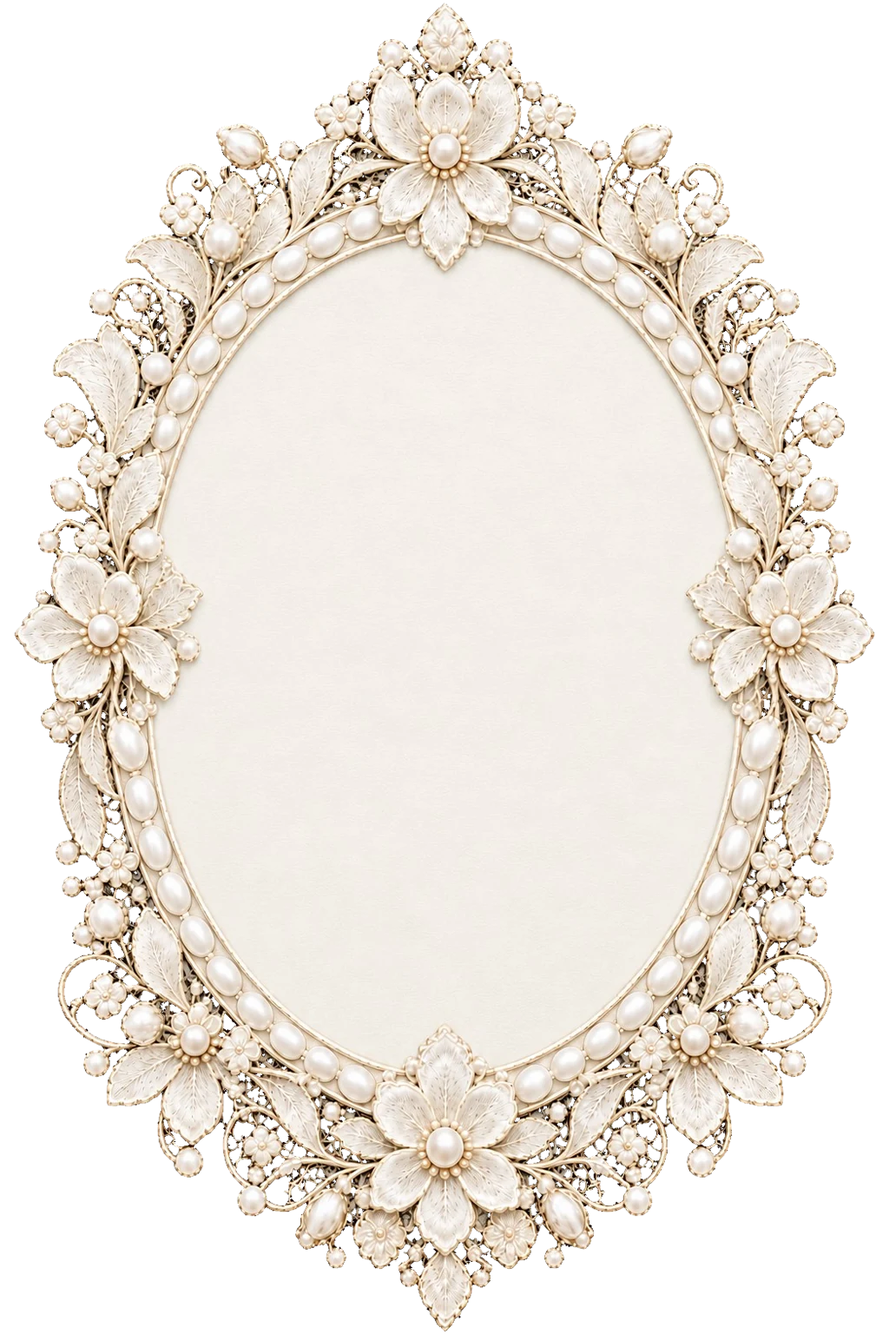
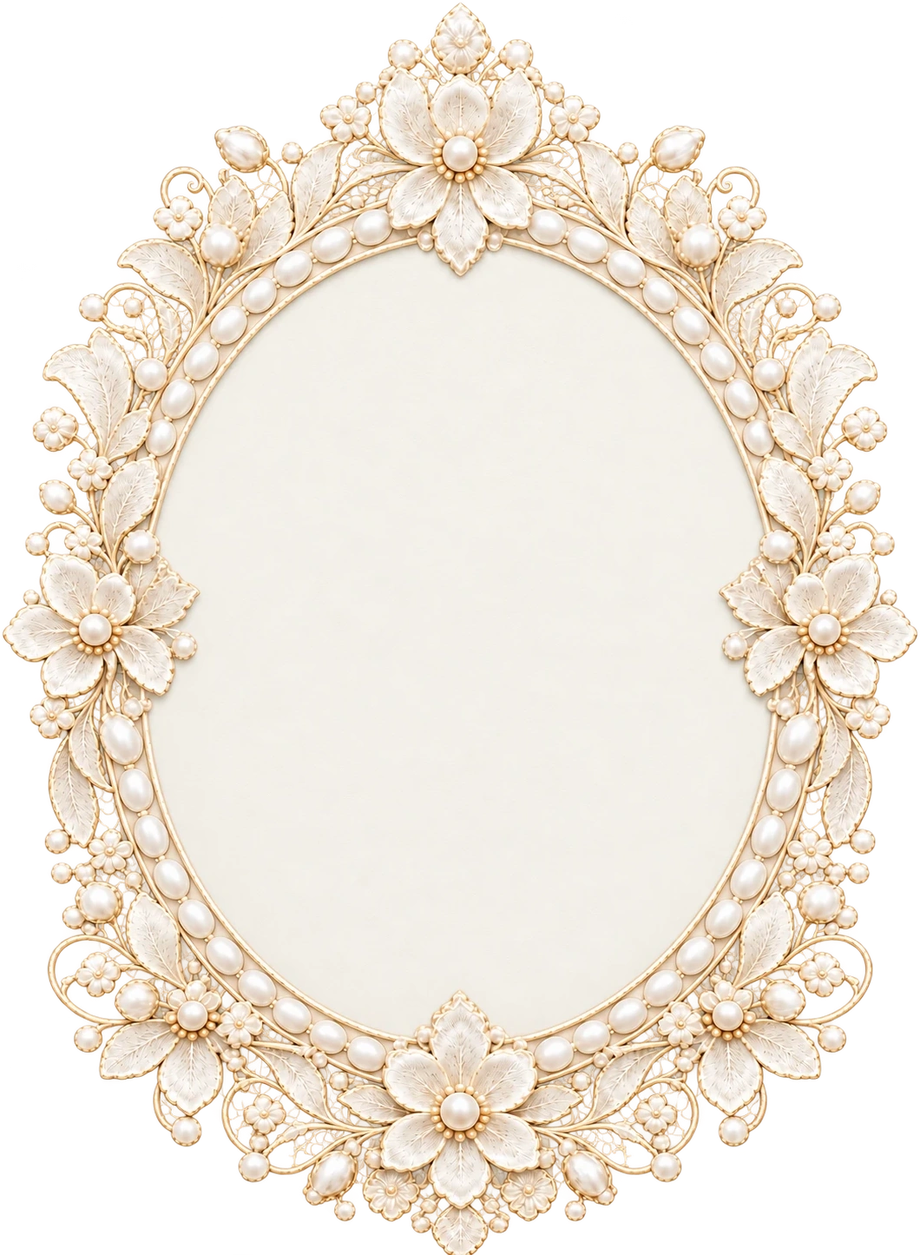
Use the sent pearl frames for the address and dress code as is
- Address and Dress code: the newly sent frames (transparent background)
  are used pixel for pixel; only the empty transparent margins are cropped.
  No background cut-out, no uneven scaling, no fitting to the old field
- Both frames keep the current width (710 px on wide screens, 96 % of the
  column on phones); the height follows each image's own proportions
- Dress code: the frame is no longer stretched with a repeated pearl band;
  the panel is exactly the image's shape and the text, lily, dividers and
  form are scaled down to fit its field on every screen (line breaks as in
  the sample everywhere; only the name field keeps a 16 px font)
- Address: the text block is re-placed in the new oval's field
- cut.py: frame_dress / frame_place take the sent files as is; the old
  fitting code and the black-background source are removed

Claude-Session: https://claude.ai/code/session_01QzKNHQTenp2prFhTaeVA4P

Changed region(s): [[0.0, 0.0, 1.0, 1.0]]

diff --git a/style.css b/style.css
@@ -395,9 +395,10 @@ main {
   }
 }
 
-/* ---------- Рамки, растущие под текст: «Приглашение» и «Дресс-код» ----------
-   Рамка – border-image подложки: верх и низ – как на картинке, полоса с ровными планками между ними
-   тянется по высоте, когда текст длиннее (на телефоне шрифт не мельче 15 px). Размеры – от ширины рамки (cqi);
+/* ---------- Рамки-подложки: «Приглашение» и «Дресс-код» ----------
+   «Приглашение» растёт под текст: border-image – верх и низ как на картинке, полоса с ровными планками между ними
+   тянется по высоте, когда текст длиннее (на телефоне шрифт не мельче 15 px). «Дресс-код» – присланная рамка
+   как есть, без растяжения. Размеры – от ширины рамки (cqi);
    --cut-t / --cut-b – высота верха и низа в пикселях картинки, --pad – поле для текста. */
 .panel {
   position: relative;
@@ -419,14 +420,9 @@ main {
   border-image-repeat: stretch;
   filter: drop-shadow(0 22px 30px rgba(60, 62, 40, .16));
 }
-/* у «Дресс-кода» бока – жемчужная нитка: полоса из 4 жемчужин (строки 773–937) не растягивается, а повторяется
-   (round – целое число раз); боковые планки – отдельными краями той же ширины, чтобы масштаб был как у всей рамки */
-.panel--dress::before {
-  border-image-slice: var(--cut-t) var(--side) var(--cut-b) var(--side) fill;
-  border-image-width: calc(100cqi * var(--cut-t) / var(--frame-w)) calc(100cqi * var(--side) / var(--frame-w))
-                      calc(100cqi * var(--cut-b) / var(--frame-w)) calc(100cqi * var(--side) / var(--frame-w));
-  border-image-repeat: stretch round;
-}
+/* «Дресс-код»: присланная рамка целиком, ровно в её пропорциях – высота панели по картинке, текст ужат под поле */
+.panel--dress::before { border-image: none; background: var(--frame) 0 0 / 100% 100% no-repeat; }
+.panel--dress .panel__body { block-size: calc(100cqi * var(--frame-h) / var(--frame-w)); justify-content: center; }
 .panel__body {
   display: flex;
   flex-direction: column;
@@ -435,7 +431,7 @@ main {
   padding: var(--pad);
 }
 .panel--invite { --frame: url(assets/img/frame-invite.webp); --frame-w: 942; --frame-h: 1533; --cut-t: 1020; --cut-b: 423; --pad: 50.5cqi 13cqi 14.5cqi; }
-.panel--dress { --frame: url(assets/img/frame-dress.webp); --frame-w: 869; --frame-h: 1765; --cut-t: 773; --cut-b: 828; --side: 120; --pad: 45cqi 16cqi 17.6cqi 20cqi; }
+.panel--dress { --frame: url(assets/img/frame-dress.webp); --frame-w: 835; --frame-h: 1486; --pad: 24.4cqi 16cqi 25.6cqi 20cqi; }   /* сверху и снизу – цветки рамки */
 
 .panel .title { font-size: 11cqi; line-height: .95; color: inherit; }
 .panel .text { max-width: none; margin: 2.2cqi 0 0; font-weight: 600; font-size: max(15px, 3.3cqi); line-height: 1.12; text-wrap: balance; }
@@ -512,7 +508,7 @@ main {
 /* ---------- Адрес: текст и орнаменты – как на образце ---------- */
 .oval__text {
   position: absolute;
-  inset: 24% 17% 22%;   /* поле рамки: x 18–82 %, y 20–80 % */
+  inset: 24.4% 17% 19.3%;   /* поле рамки: x 17–83 %, y 20–82 % */
   display: flex;
   flex-direction: column;
   align-items: center;
@@ -584,25 +580,20 @@ main {
 .prog span { font-size: 3.95cqi; line-height: 1.2; }
 
 
-/* ---------- Дресс-код · Фото · Анкета: как на образце ---------- */
-.panel--dress .title { font-size: 11.4cqi; }
-.panel--dress .title + .text { margin-top: 1cqi; }
-.panel--dress .text { font-size: max(15px, 3.15cqi); }
-.panel--dress .text + .text { margin-top: 2.6cqi; }
-.title--dress { font-size: 13.4cqi !important; translate: 12cqi 0; margin-bottom: 1.6cqi; }
-/* абзацы обходят букеты: дресс-код – правее (букет слева сверху), фото и анкета – левее (букет справа снизу) */
-.panel .text--right { margin-inline-start: 13cqi; }
-.panel .text--left { margin-inline-end: 10cqi; }
-@container (min-width: 520px) {
-  .panel .text--right { margin-inline-start: 7cqi; }
-  .panel .text--left { margin-inline-end: 0; }
-}
-.panel--dress .divider { --divider: 64cqi; block-size: 4.4cqi; margin: 2.2cqi 0 1.2cqi; translate: -1cqi 0; }
+/* ---------- Дресс-код · Фото · Анкета: как на образце ----------
+   Рамка не растягивается, поэтому всё – только от ширины рамки (cqi), без нижних пределов в px:
+   на любом экране текст лежит в поле одинаково, строки – как на образце. */
+.panel--dress .title { font-size: 9.6cqi; }
+.panel--dress .title + .text { margin-top: .8cqi; }
+.panel--dress .text { font-size: 2.65cqi; text-wrap: nowrap; }
+.panel--dress .br { display: inline; }
+.panel--dress .text + .text { margin-top: 1.8cqi; }
+.title--dress { font-size: 11.2cqi !important; translate: 10cqi 0; margin-bottom: 1.3cqi; }
+/* дресс-код – чуть правее, как на образце */
+.panel .text--right { margin-inline-start: 6cqi; }
+.panel--dress .divider { --divider: 54cqi; block-size: 3.7cqi; margin: 1.6cqi 0 .9cqi; translate: -1cqi 0; }
 .text--lily { position: relative; }
-.lily { display: block; inline-size: 13cqi; margin: 1cqi auto 0; }
-@container (min-width: 520px) {
-  .lily { position: absolute; inline-size: 16.2cqi; margin: 0; inset-inline-start: calc(100% - 2.4cqi); inset-block-start: -1.4cqi; }
-}
+.lily { position: absolute; inline-size: 13.6cqi; inset-inline-start: calc(100% - 2cqi); inset-block-start: -1.2cqi; }
 
 /* анкета: поле, кружки и кнопка – как нарисованы на образце, настоящие */
 .rsvp {
@@ -610,44 +601,44 @@ main {
   display: flex;
   flex-direction: column;
   align-items: flex-start;
-  margin: 2.6cqi 0 0 -1cqi;   /* левый край – как на образце */
+  margin: 2.1cqi 0 0 -1cqi;   /* левый край – как на образце */
   text-align: start;
 }
-.rsvp__label { padding: 0; font-weight: 600; font-size: max(15px, 3.05cqi); line-height: 1.15; color: inherit; }
+.rsvp__label { padding: 0; font-weight: 600; font-size: 2.6cqi; line-height: 1.15; color: inherit; }
 .rsvp__field {
   inline-size: 96%;
-  block-size: max(42px, 5.4cqi);
-  margin-top: .9cqi;
-  padding: 0 2.4cqi;
-  border: max(1.5px, .24cqi) solid var(--gold);
+  block-size: max(24px, 4.6cqi);   /* шрифт поля – не меньше 16 px */
+  margin-top: .7cqi;
+  padding: 0 2cqi;
+  border: max(1px, .22cqi) solid var(--gold);
   border-radius: 999px;
   background: rgba(255, 253, 246, .45);
   font-family: var(--serif);
   font-weight: 500;
-  font-size: max(16px, 2.9cqi);   /* не меньше 16 px: телефон не увеличивает страницу при вводе */
+  font-size: max(16px, 2.5cqi);   /* не меньше 16 px: телефон не увеличивает страницу при вводе */
   color: #3f3c22;
   outline: none;
   transition: box-shadow .2s ease, border-color .2s ease;
 }
 .rsvp__field:focus-visible { border-color: #a97a2f; box-shadow: 0 0 0 3px rgba(199, 155, 69, .28); }
-.rsvp__choice { margin: 2.4cqi 0 0; padding: 0; border: 0; min-inline-size: 0; }
-.rsvp__choice legend { max-inline-size: 56cqi; margin-bottom: .6cqi; }
+.rsvp__choice { margin: 2cqi 0 0; padding: 0; border: 0; min-inline-size: 0; }
+.rsvp__choice legend { max-inline-size: 56cqi; margin-bottom: .5cqi; }
 .rsvp__opt {
   display: flex;
   align-items: center;
-  gap: 2.6cqi;
-  min-block-size: max(40px, 5.3cqi);
+  gap: 2.2cqi;
+  min-block-size: 4.5cqi;
   font-weight: 600;
-  font-size: max(15px, 3.1cqi);
+  font-size: 2.65cqi;
   cursor: pointer;
   -webkit-tap-highlight-color: transparent;
 }
 .rsvp__opt input {
   flex: none;
-  inline-size: max(22px, 4.4cqi);
+  inline-size: 3.75cqi;
   aspect-ratio: 1;
   margin: 0;
-  border: max(2px, .36cqi) solid #b8853a;
+  border: max(1.5px, .31cqi) solid #b8853a;
   border-radius: 50%;
   appearance: none;
   -webkit-appearance: none;
@@ -658,15 +649,15 @@ main {
 .rsvp__opt input:checked { background-size: 100% 100%; }
 .rsvp__opt input:focus-visible { outline: 2px solid var(--olive); outline-offset: 3px; }
 .rsvp__send {
-  inline-size: max(150px, 32.6cqi);
-  block-size: max(46px, 7.4cqi);
-  margin: 2.6cqi 0 0 10.8cqi;
+  inline-size: 27.8cqi;
+  block-size: 6.3cqi;
+  margin: 2.1cqi 0 0 10.8cqi;
   padding: 0;
-  border: max(2px, .32cqi) solid #c9a35a;
+  border: max(1px, .28cqi) solid #c9a35a;
   border-radius: 999px;
   background: linear-gradient(#6a6e44, #565a32);
   color: #fff;
-  font-size: max(17px, 3.3cqi);
+  font-size: 2.85cqi;
   font-weight: 500;
   letter-spacing: .02em;
   box-shadow: 0 .9cqi 1.8cqi rgba(60, 50, 20, .28), inset 0 1px 0 rgba(255, 255, 255, .2);

diff --git a/index.html b/index.html
@@ -112,7 +112,7 @@
     <section class="sec sec--place" id="place">
       <div class="col">
         <div class="oval" data-reveal="frame">
-          <img class="oval__img" src="assets/img/frame-place.webp" alt="" width="1024" height="1536" loading="lazy" decoding="async">
+          <img class="oval__img" src="assets/img/frame-place.webp" alt="" width="1060" height="1445" loading="lazy" decoding="async">
           <div class="oval__text">
             <h2 class="title" data-write>Адрес</h2>
             <i class="rule" data-inview aria-hidden="true"></i>
@@ -144,7 +144,7 @@
       </div>
     </section>
 
-    <!-- ============ ДРЕСС-КОД · ФОТО · АНКЕТА: присланная жемчужная рамка – фон, текст и анкета живые ============ -->
+    <!-- ============ ДРЕСС-КОД · ФОТО · АНКЕТА: присланная жемчужная рамка как есть – фон, текст и анкета живые ============ -->
     <section class="sec sec--panel" id="dress">
       <div class="col">
         <div class="panel panel--dress" data-reveal="frame">
@@ -155,10 +155,10 @@
             <p class="text text--right text--lily" data-reveal>А белый цвет мы с любовью просим<br class="br"> оставить для невесты<img class="lily" data-bloom src="assets/img/orn-lily.webp" alt="" width="141" height="114" loading="lazy" decoding="async"></p>
             <i class="divider" data-inview aria-hidden="true"><b></b></i>
             <h2 class="title" id="photo" data-write>Фото</h2>
-            <p class="text text--left" data-reveal>После праздника, когда фото будут готовы,<br class="br"> здесь появится ссылка на свадебный альбом!</p>
+            <p class="text" data-reveal>После праздника, когда фото будут готовы,<br class="br"> здесь появится ссылка на свадебный альбом!</p>
             <i class="divider" data-inview aria-hidden="true"><b></b></i>
             <h2 class="title" id="rsvp" data-write>Анкета</h2>
-            <p class="text text--left" data-reveal>Пожалуйста, подтвердите присутствие<br class="br"> до 1 июня 2027 года, чтобы мы смогли<br class="br"> спланировать всё наилучшим образом!</p>
+            <p class="text" data-reveal>Пожалуйста, подтвердите присутствие<br class="br"> до 1 июня 2027 года, чтобы мы смогли<br class="br"> спланировать всё наилучшим образом!</p>
             <form class="rsvp" id="rsvp-form"
                   action="https://docs.google.com/forms/d/e/1FAIpQLSe4BrtPvw5_LbyWcVfD28BD3UFVkCT_nhqsxXx3hOm8lzBYHQ/formResponse"
                   method="post" target="_blank" novalidate>

diff --git a/tools/cut.py b/tools/cut.py
@@ -421,11 +421,10 @@ def ornament(name, rgb, clean, box, clear=None):
 
 
 # ---------- пятый набор: присланные рамки без текста (текст – на сайте), орнаменты – с образцов ----------
-# frame-1.webp – слои SVG «Рамка 1», сведённые без изменений; frame-dress-pearl.webp и frame-place-pearl.jpg –
-# присланные жемчужные рамки «Дресс-код» и «Адрес» (на чёрном);
+# frame-1.webp – слои SVG «Рамка 1», сведённые без изменений; frame-dress-pearl.webp и frame-place-pearl.webp –
+# присланные жемчужные рамки «Дресс-код» и «Адрес» (фон уже прозрачный) – берутся как есть;
 # sample-*.jpg / sample-place.webp – образцы из архива «образец страниц сайта» (с них – лилия и линии «Адреса»).
-# На сайте прямоугольные рамки тянутся по высоте под текст: растягивается полоса с ровными планками
-# (у «Рамки 1» – строки 1020–1110; у «Дресс-кода» полоса из целого числа жемчужин повторяется, см. frame_dress).
+# На сайте «Рамка 1» тянется по высоте под текст: растягивается полоса с ровными планками (строки 1020–1110).
 
 def smooth_fill(rgb, known, sigma):
     """Плавная заливка по известным пикселям (взвешенное гауссово среднее);
@@ -495,61 +494,23 @@ def frame_invite():
     ornament('orn-heart', rgb, clean, (1292, 1378, 388, 492))
 
 
-# Новые рамки подгоняются под поле для текста прежних, поэтому раскладка текста в style.css не меняется.
-# «Дресс-код»: поле прежней рамки в кадре 869 × 1775 и поле присланной frame-dress-pearl.webp (884 × 1779) –
-# x слева и справа посередине высоты, y сверху и снизу между цветами.
-DRESS_FIELD_OLD = (107, 251, 782, 1654)
-DRESS_FIELD_NEW = (97, 176, 784, 1566)
-DRESS_GAP = 133          # от низа поля до низа кадра – как у прежней рамки (больше – если цветок внизу ниже)
-DRESS_SIDE = 120         # ширина боковых планок для border-image (жемчужная нитка и золотые линии)
-# «Адрес»: овал поля текущей рамки (1024 × 1536) и присланной frame-place-pearl.jpg (1024 × 1536)
-PLACE_FIELD_OLD = (182, 298, 841, 1234)
-PLACE_FIELD_NEW = (174, 289, 849, 1212)
-
-
-def fit_frame(rgb, alpha, sx, sy, tx, ty, size):
-    """Масштаб sx, sy и сдвиг tx, ty в кадр size (премультиплицированно – без тёмной каймы на краях)."""
-    im = Image.fromarray(np.dstack([np.clip(rgb, 0, 255), alpha * 255]).round().astype(np.uint8), 'RGBA').convert('RGBa')
-    im = im.transform(size, Image.AFFINE, (1 / sx, 0, -tx / sx, 0, 1 / sy, -ty / sy), Image.BICUBIC).convert('RGBA')
-    a = np.asarray(im).astype(float)
-    return a[..., :3], a[..., 3] / 255
+def as_sent(name, src):
+    """Присланная рамка как есть: пиксели не меняются, только альфа доведена до 255 (у присланных webp она
+    бывает не выше 254) и пустые прозрачные поля вокруг обрезаны по силуэту. Проценты поля в style.css –
+    от обрезанного кадра."""
+    a = load_rgba(src)
+    return save(name, a[..., :3], np.clip(a[..., 3] / 252, 0, 1), quality=95)
 
 
 def frame_dress():
-    """Рамка «Дресс-код» – присланная жемчужная frame-dress-pearl.webp: чёрный фон – прозрачный; масштаб одинаковый
-    по обеим осям – ширина поля как у прежней рамки, верх поля на том же месте, низ кадра – на DRESS_GAP ниже поля.
-    Лилия у «оставить для невесты» – с образца.
-    Бока рамки – жемчужная нитка: при вытягивании под текст полоса из целого числа жемчужин повторяется
-    (border-image round), а не растягивается. Печатает её строки – --cut-* в style.css."""
-    rgb, alpha = cut_black(load('frame-dress-pearl.webp'), band=4)
-    (ox0, oy0, ox1, _), (nx0, ny0, nx1, ny1) = DRESS_FIELD_OLD, DRESS_FIELD_NEW
-    k = (ox1 - ox0) / (nx1 - nx0)
-    tx, ty = ox0 - nx0 * k, oy0 - ny0 * k
-    low = np.where(alpha.max(1) > .03)[0][-1] * k + ty         # нижний край цветка
-    H = int(np.ceil(max(ny1 * k + ty + DRESS_GAP, low + 3)))
-    rgb, alpha = fit_frame(rgb, alpha, k, k, tx, ty, (869, H))
-    save_full('frame-dress', rgb, alpha, quality=88)
-    # полоса для повторения: высота – целое число жемчужин, строки над и под ней совпадают на обоих боках
-    flat = rgb * alpha[..., None]
-    sides = np.r_[0:DRESS_SIDE, 869 - DRESS_SIDE:869]
-    sig = flat[400:1300, 40:110].mean((1, 2))
-    sig = sig - sig.mean()
-    ac = np.correlate(sig, sig, 'full')[len(sig) - 1:]
-    period = 15 + np.argmax(ac[15:120])
-    best = None
-    for n in (3, 4, 5):
-        h = int(round(n * period))
-        for r in range(int(ny0 * k + ty) + 450, int(ny1 * k + ty) - 650 - h):
-            err = np.abs(flat[r - 2:r + 3, sides] - flat[r + h - 2:r + h + 3, sides]).mean()
-            if best is None or err < best[0]:
-                best = (err, r, h)
-    err, r, h = best
-    print(f'  кадр 869 × {H}, шаг жемчуга {period}, полоса строк {r}–{r + h} ({h} = {h / period:.2f} шага, '
-          f'шов {err:.1f}): --frame-h {H}; --cut-t {r}; --cut-b {H - r - h}; бока {DRESS_SIDE}')
+    """Рамка «Дресс-код» – присланная жемчужная frame-dress-pearl.webp как есть (на сайте не растягивается).
+    Лилия у «оставить для невесты» – с образца, бумага образца приведена к тону поля рамки."""
+    im = as_sent('frame-dress', 'frame-dress-pearl.webp')
+    tone = np.median(np.asarray(im.convert('RGB'))[500:1000, 250:600].reshape(-1, 3), 0)
     y0, y1, x0, x1 = 812, 930, 650, 798
     s = load('sample-dress.jpg')[y0:y1, x0:x1]
     paper = np.median(s.reshape(-1, 3), 0)
-    s = s * np.median(rgb[y0:y1, x0:x1].reshape(-1, 3), 0) / paper     # бумага образца → тон бумаги рамки
+    s = s * tone / paper                                       # бумага образца → тон бумаги рамки
     corner = np.zeros(s.shape[:2], bool)
     corner[:858 - y0, :688 - x0] = True                        # слева сверху – конец строки «просим»: стереть
     s[ndi.binary_dilation(corner & (s.mean(2) < 200), iterations=2) & corner] = np.median(s.reshape(-1, 3), 0)
@@ -562,18 +523,9 @@ def frame_dress():
 
 
 def frame_place():
-    """«Адрес» – присланная жемчужная овальная рамка frame-place-pearl.jpg (1024 × 1536): чёрный фон – прозрачный,
-    овал поля совмещён с полем прежней рамки (по ширине −2,4 %, по высоте +1,4 %); если нижний цветок выходит
-    за кадр, рамка чуть приподнимается. Линии с лилией и подвеска под «Открыть на карте» – с образца."""
-    rgb, alpha = cut_black(load('frame-place-pearl.jpg'), band=4, min_hole=1)
-    (ox0, oy0, ox1, oy1), (nx0, ny0, nx1, ny1) = PLACE_FIELD_OLD, PLACE_FIELD_NEW
-    sx, sy = (ox1 - ox0) / (nx1 - nx0), (oy1 - oy0) / (ny1 - ny0)
-    tx, ty = ox0 - nx0 * sx, oy0 - ny0 * sy
-    rows = np.where(alpha.max(1) > .03)[0]
-    ty -= max(0, rows[-1] * sy + ty - (1536 - 3))
-    print(f'  поле: x {nx0 * sx + tx:.0f}–{nx1 * sx + tx:.0f}, y {ny0 * sy + ty:.0f}–{ny1 * sy + ty:.0f} (прежнее {PLACE_FIELD_OLD})')
-    rgb, alpha = fit_frame(rgb, alpha, sx, sy, tx, ty, (1024, 1536))
-    save_full('frame-place', rgb, alpha, quality=88)
+    """«Адрес» – присланная жемчужная овальная рамка frame-place-pearl.webp как есть.
+    Линии с лилией и подвеска под «Открыть на карте» – с образца."""
+    as_sent('frame-place', 'frame-place-pearl.webp')
     s = load_rgba('sample-place.webp')[..., :3]
     yy, xx = np.mgrid[:1536, :1024]
     clean = paper_tone(s, ((xx - 513) / 330) ** 2 + ((yy - 765) / 460) ** 2 < 1)

diff --git a/README.md b/README.md
@@ -29,26 +29,29 @@
    На альбомных экранах – сцена 1920 × 1080: присланное фото, продолженное вправо и влево тем же фоном
    (шторы и цветы без шва, без размытия). На узких экранах – присланное фото целиком, по краям то же фото, размытое.
 3. **Приглашение** и календарь июля – присланная «Рамка 1»; текст и календарь живые, расположены как на образце.
-4. **Адрес** – присланная овальная жемчужная рамка с кружевом, овал поля совмещён с полем прежней рамки;
-   текст живой, линии с лилией и подвеска под «Открыть на карте» – с образца.
+4. **Адрес** – присланная овальная жемчужная рамка с кружевом, как есть (без растяжения и подгонки), той же ширины,
+   что и прежняя; текст живой, линии с лилией и подвеска под «Открыть на карте» – с образца.
 5. **Программа дня** – присланная рамка, по ширине золотой рамы – вровень с «Приглашением» и «Дресс-кодом»; время, подписи и стрелки со звёздочками – как на макете, текст живой.
-6–8. **Дресс-код, Фото, Анкета** – присланная жемчужная рамка; текст, поле имени, кружки и кнопка «Отправить» – живые,
-   как на образце. После «Отправить» ответ уходит в Google Форму
+6–8. **Дресс-код, Фото, Анкета** – присланная жемчужная рамка, как есть: не растягивается, той же ширины, что и прежняя;
+   текст, поле имени, кружки и кнопка «Отправить» – живые, как на образце, и ужаты под поле рамки
+   (на телефоне текст мельче). После «Отправить» ответ уходит в Google Форму
    (`forms.gle/tFGab39fcvPiubak7`), в окне – «Спасибо!».
 9. **Финал** – обратный отсчёт до 21.07.2027, 14:00.
 
 ## Что поменять
 
 - Время в программе – в `index.html`.
-- Все тексты – в `index.html`. Рамки «Приглашение» и «Дресс-код» сами вытягиваются по высоте, если текст длиннее.
-  Переносы строк как на образце (`<br class="br">`) действуют на широких рамках, на телефоне текст переносится сам.
+- Все тексты – в `index.html`. Рамка «Приглашение» сама вытягивается по высоте, если текст длиннее; переносы строк
+  как на образце (`<br class="br">`) действуют на широких рамках, на телефоне текст переносится сам.
+  Рамка «Дресс-код» не растягивается: если текста станет больше, уменьшите размеры в `style.css`
+  (блок «Дресс-код · Фото · Анкета»), чтобы он остался внутри рамки; переносы строк там – как на образце на любом экране.
 - Время для отсчёта – в `script.js` (строка с `2027-07-21T14:00`).
 - Музыка – положите `assets/music.mp3`.
 
 ## Анкета
 
-Форма отправляет ответы прямо в Google Форму: поля «Имя и Фамилия» (вводится в нарисованное поле на карточке)
-и «Сможете ли Вы присутствовать…» (кружки на картинке). Если не получилось отправить, окно просит попробовать ещё раз.
+Форма отправляет ответы прямо в Google Форму: поля «Имя и Фамилия» и «Сможете ли Вы присутствовать…»
+(кружки вариантов). Если не получилось отправить, окно просит попробовать ещё раз.
 Если в форме поменять вопросы, их номера (`entry.…`) изменятся – тогда их нужно обновить в `index.html` и `script.js`.
 
 ## Графика
@@ -62,11 +65,9 @@
 - рамки – присланные, оформление не менялось, текст – на сайте:
   `frame-invite.webp` – «Рамка 1» (`frame-1.webp`, слои SVG сведены), чёрный фон вокруг – прозрачный, с поля убраны
   разделитель, линии и сердце (звёздочка `orn-sparkle.webp` и сердце `orn-heart.webp` – отдельно, на сайте);
-  `frame-dress.webp` – жемчужная рамка (`frame-dress-pearl.webp`), чёрный фон – прозрачный; ширина и верх поля –
-  как у прежней рамки, поэтому текст лёг так же; при вытягивании под текст полоса из 4 жемчужин на боках
-  повторяется, а не растягивается; лилия у «оставить для невесты» – `orn-lily.webp` с образца;
-  `frame-place.webp` – овальная жемчужная рамка (`frame-place-pearl.jpg`, 1024 × 1536), чёрный фон вокруг
-  и в просветах кружева – прозрачный, овал совмещён с полем прежней рамки; линии с лилией и подвеска –
+  `frame-dress.webp` и `frame-place.webp` – присланные жемчужные рамки (`frame-dress-pearl.webp`,
+  `frame-place-pearl.webp`, фон уже прозрачный) как есть: пиксели не меняются, обрезаны только пустые прозрачные поля
+  вокруг; лилия у «оставить для невесты» – `orn-lily.webp` с образца; линии с лилией и подвеска «Адреса» –
   `orn-rule*.webp`, `orn-pendant.webp` с образца;
   образцы из архива – `tools/src/sample-*`;
 - рамка «Программа» – поле очищено от текста-образца (время берётся с сайта), стрелка со звёздочкой – `orn-star.webp`;
